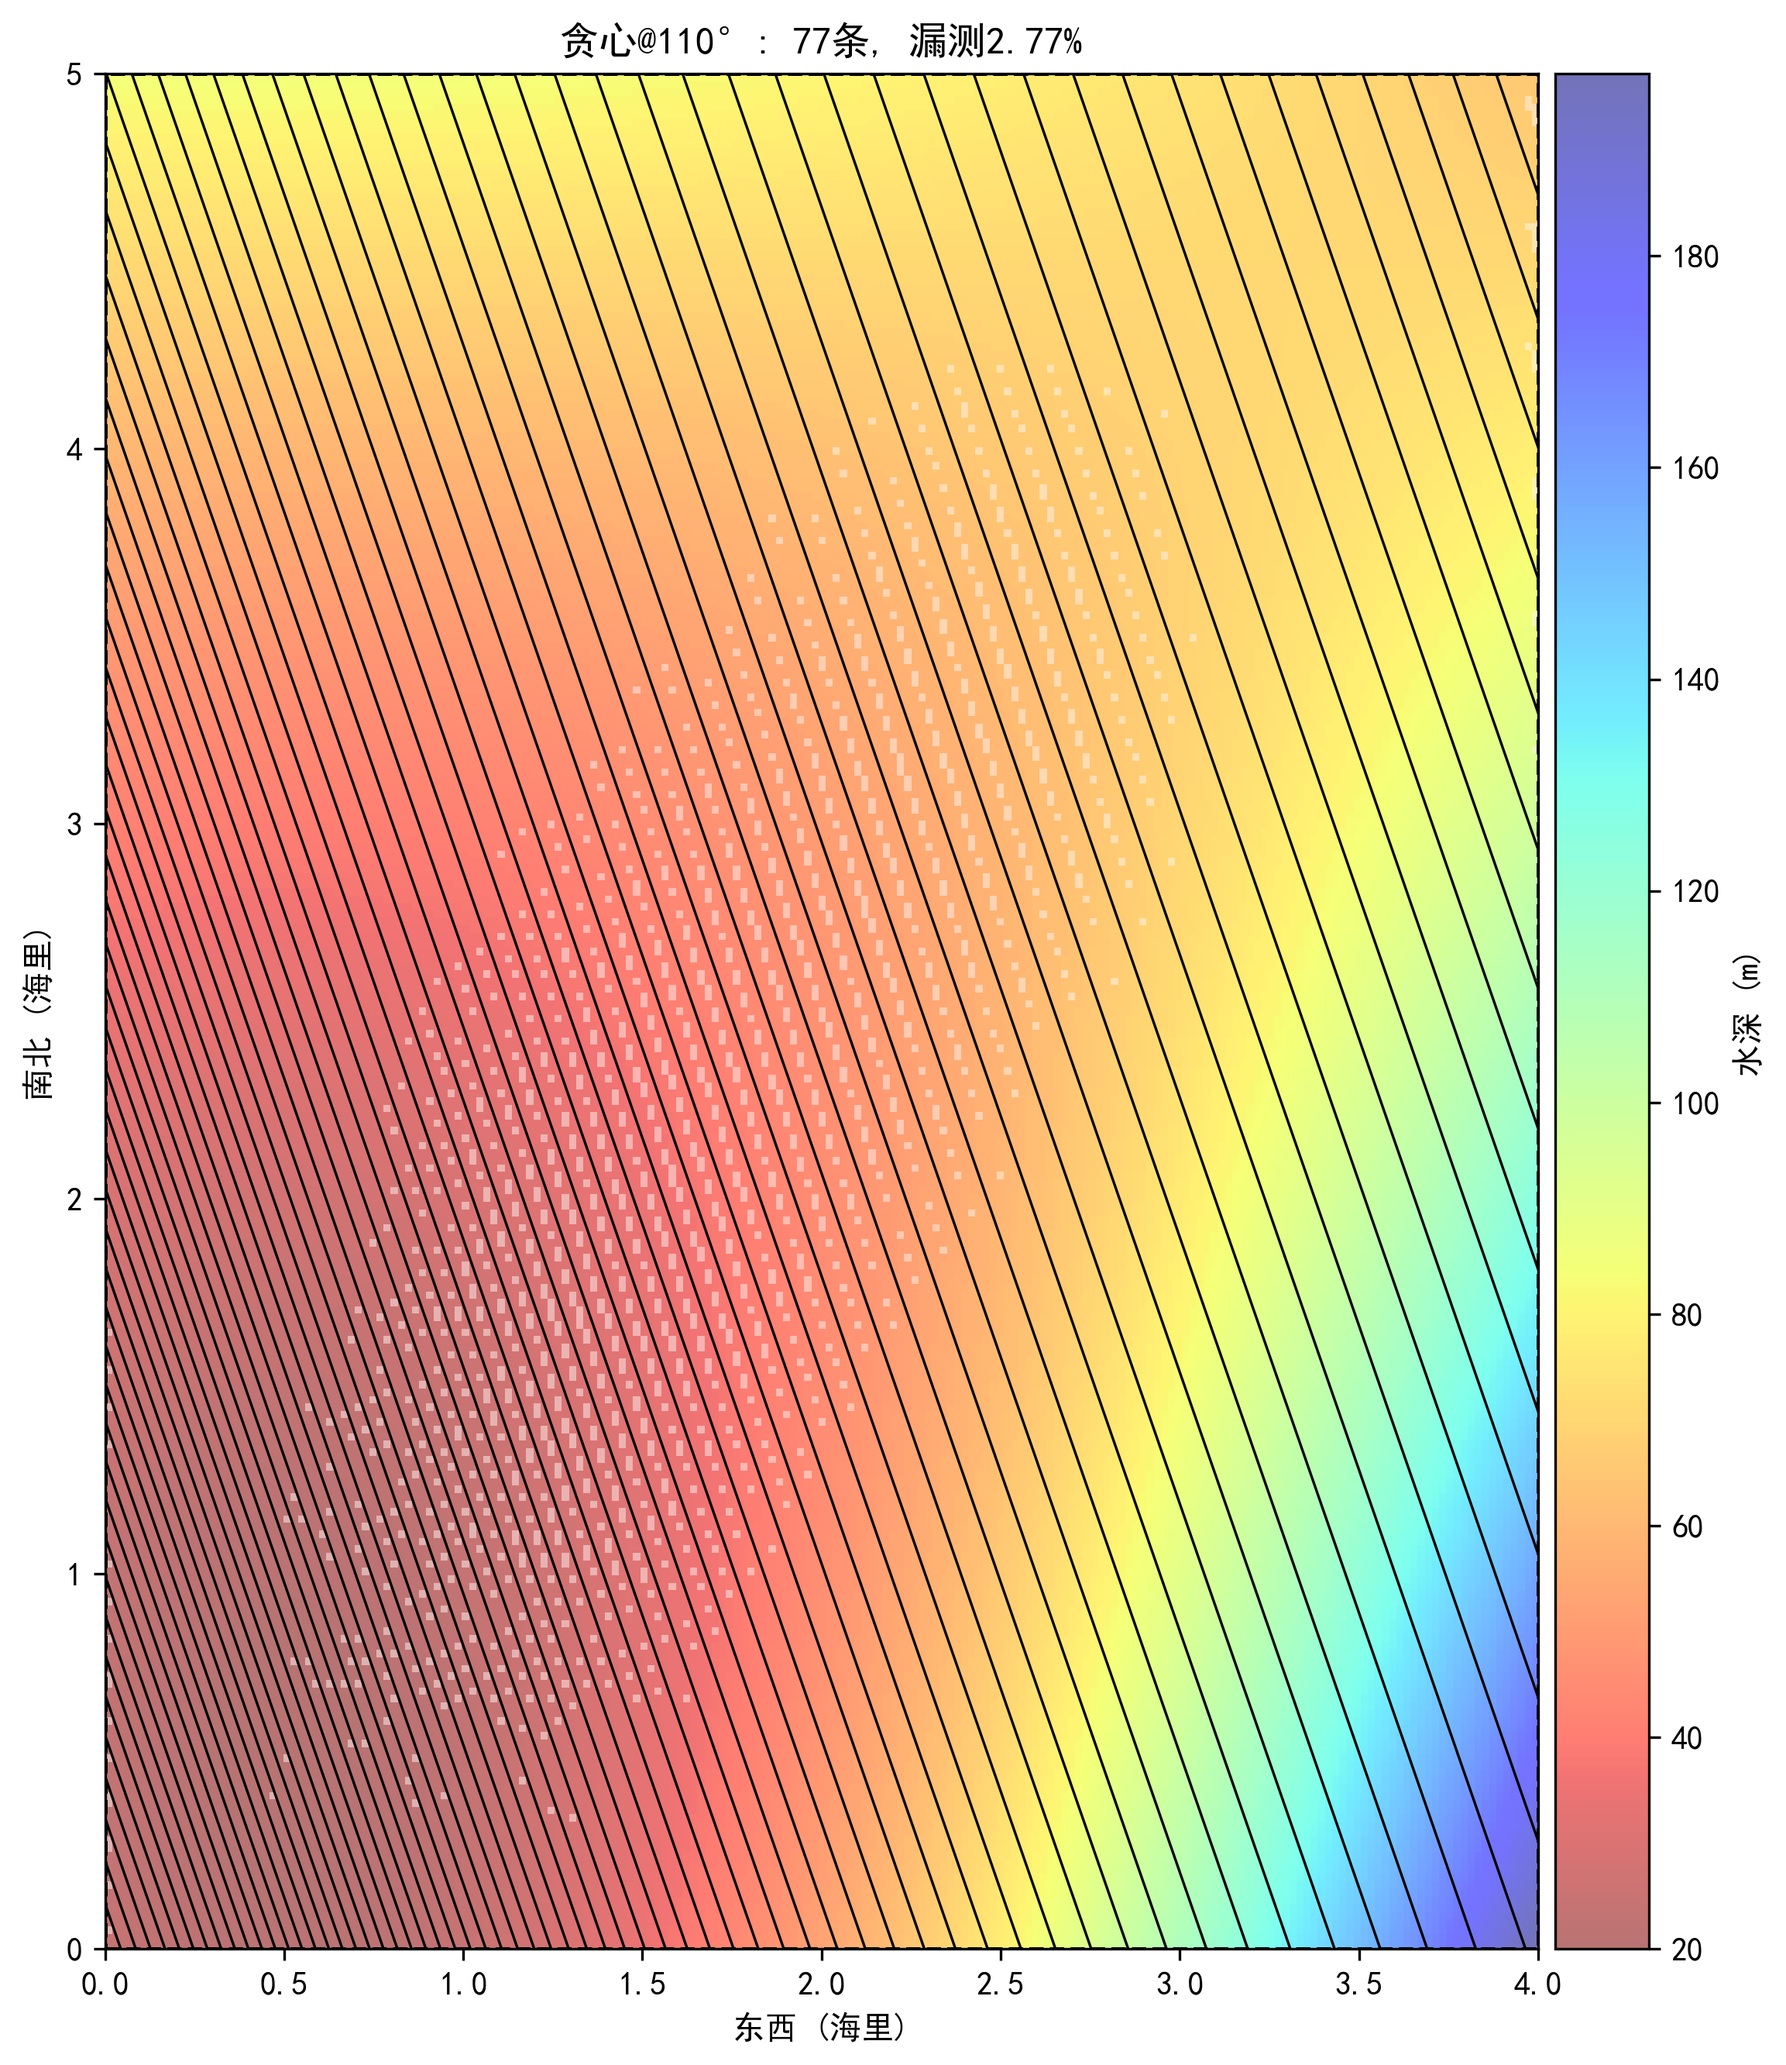
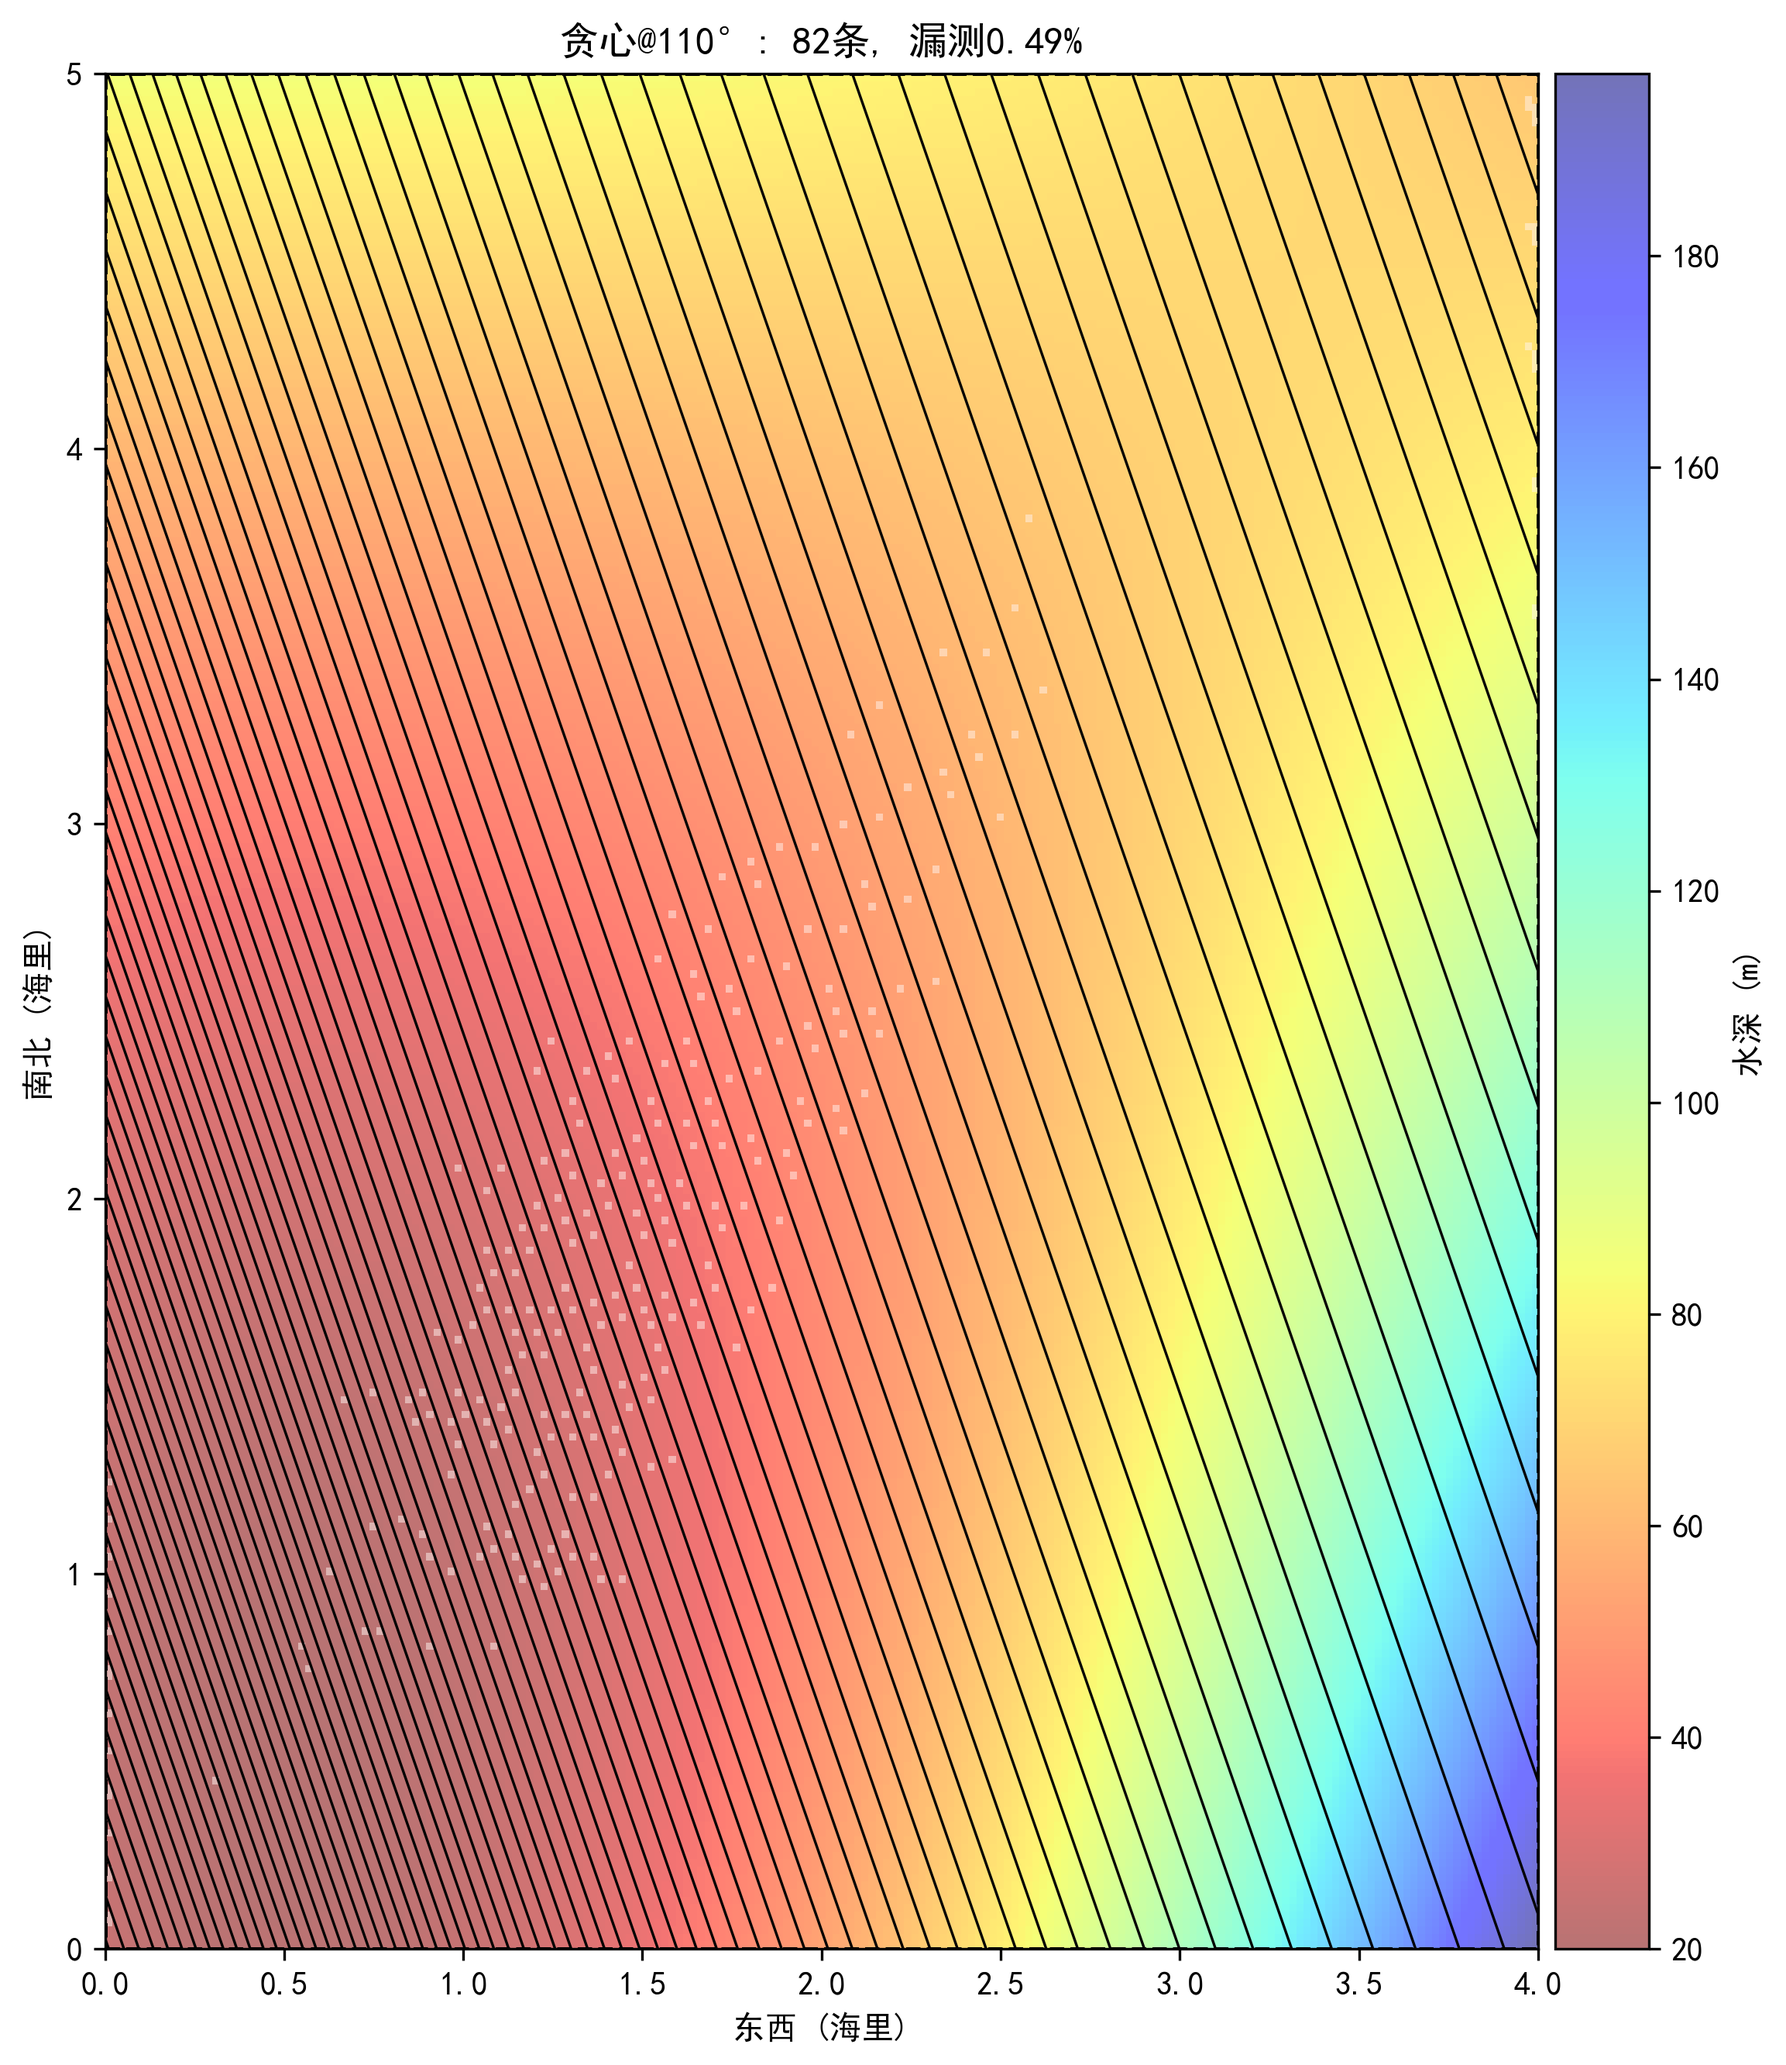
feat: 每问补充论证图(趋势/剖面/方向扫描/地形特征), 论文素材图清单定稿为每问3张

Changed region(s): [[0.0624, 0.0, 0.8742, 0.9655]]

diff --git a/单刷2023B/code/fig_q3_analysis.py b/单刷2023B/code/fig_q3_analysis.py
@@ -11,12 +11,46 @@ import matplotlib.pyplot as plt
 from matplotlib.colors import Normalize
 from matplotlib import cm
 
-from solve_q3 import layout_west, width, XW, XE, W_NS, H0, ta
+from solve_q3 import (layout_west, simulate_beta, width,
+                      XW, XE, W_NS, H0, ta)
 
 plt.rcParams['font.sans-serif'] = ['SimHei', 'Microsoft YaHei']
 plt.rcParams['axes.unicode_minus'] = False
 
 FIG = Path(__file__).resolve().parent.parent / 'fig'
+
+
+# ===== 图: β 方向扫描 (0~90°, 对称性裁剪) =====
+betas = np.arange(0, 91, 15)              # 测线无方向, β与180°-β等价
+l90 = simulate_beta(90)
+rels = np.array([simulate_beta(b) / l90 for b in betas])
+
+fig, ax = plt.subplots(figsize=(9, 5.5))
+ax.plot(betas, rels, 'o-', color='#2e86ab', lw=2, ms=7)
+ax.axvspan(85, 90, color='#c0392b', alpha=0.08)      # 最优区间高亮
+ax.axvline(90, color='#c0392b', ls='--', lw=1.2)
+for b, r in zip(betas, rels):
+    if b == 0:
+        ax.annotate(f'×{r:.2f}', xy=(b, r), xytext=(6, r - 0.35),
+                    fontsize=11, color='#1f4e79', fontweight='bold')
+    elif b == 90:
+        ax.annotate(f'×{r:.2f}', xy=(b, r), xytext=(b - 22, r + 0.15),
+                    fontsize=11, color='#1f4e79', fontweight='bold')
+    elif b in (30, 45, 60):
+        ax.annotate(f'×{r:.2f}', xy=(b, r), xytext=(b + 3, r - 0.25),
+                    fontsize=10, color='#1f4e79')
+ax.text(20, rels.max() * 0.9, '垂直等深线', ha='center', fontsize=10,
+        color='#888')
+ax.text(90, rels.max() * 0.7, '沿等深线', ha='right', fontsize=10,
+        color='#c0392b')
+ax.set_xlabel('测线方向夹角 (度)')
+ax.set_ylabel('相对测线总长 (90度方向为 1.00)')
+ax.set_title('测线总长随方向角单调递减, 90度方向最短')
+ax.grid(True, alpha=0.3, ls='--')
+plt.tight_layout()
+plt.savefig(FIG / 'fig_q3_beta_scan.png', dpi=300, bbox_inches='tight')
+plt.close(fig)
+print(f'[OK] fig_q3_beta_scan.png  β=0:×{rels[0]:.2f} β=90:×{rels[-1]:.2f}')
 
 
 # ===== 彩色海底 + 蛇形航线 =====

diff --git a/单刷2023B/code/fig_q2_results.py b/单刷2023B/code/fig_q2_results.py
@@ -8,6 +8,8 @@ from pathlib import Path
 
 import numpy as np
 import matplotlib.pyplot as plt
+from matplotlib import cm
+from matplotlib.colors import Normalize
 from scipy.interpolate import griddata
 
 plt.rcParams['font.sans-serif'] = ['SimHei', 'Microsoft YaHei']
@@ -84,3 +86,35 @@ ax2.set_title('(b) 覆盖宽度热力图', fontsize=12)
 plt.tight_layout()
 plt.savefig(FIG / 'fig_q2_combined.png', dpi=300, bbox_inches='tight')
 plt.close(fig)
+
+# ===== 图: β 剖面曲线族 (W vs L, 渐变色标) =====
+betas_prof = np.arange(0, 91, 15)          # 0,15,...,90 按公式重算
+Wp = np.zeros((len(betas_prof), len(L_NM)))
+for i, b in enumerate(betas_prof):
+    cb, sb = np.cos(np.deg2rad(b)), np.sin(np.deg2rad(b))
+    tap = ta * abs(sb)
+    Wp[i] = (H0 - L_NM * NM * ta * cb) * (1 / (t30 + tap) + 1 / (t30 - tap))
+
+fig, ax = plt.subplots(figsize=(9, 5.5))
+cmap = plt.cm.coolwarm
+norm = Normalize(0, 90)
+for i, b in enumerate(betas_prof):
+    ax.plot(L_NM, Wp[i], 'o-', color=cmap(norm(b)),
+            lw=3 if b == 90 else 1.6, ms=6 if b == 90 else 4)
+ax.fill_between(L_NM, Wp[0], Wp[-1], color='#2e86ab', alpha=0.06)
+ax.annotate('β=90°(沿等深线):\nW 恒定且最大', xy=(1.05, 418),
+            xytext=(0.75, 490),
+            arrowprops=dict(arrowstyle='->', color='#c0392b'),
+            fontsize=11, color='#c0392b', fontweight='bold')
+ax.set_xlabel('距中心点距离 L (海里)')
+ax.set_ylabel('覆盖宽度 W (m)')
+ax.set_title('不同测线方向 β 的 W(L) 剖面族')
+mappable = cm.ScalarMappable(norm=norm, cmap=cmap)
+mappable.set_array([])
+cbar = fig.colorbar(mappable, ax=ax, pad=0.02)
+cbar.set_label('测线方向 β (°)')
+ax.grid(True, alpha=0.3, ls='--')
+plt.tight_layout()
+plt.savefig(FIG / 'fig_q2_profile.png', dpi=300, bbox_inches='tight')
+plt.close(fig)
+print(f'[OK] {FIG / "fig_q2_profile.png"}')

diff --git a/单刷2023B/code/fig_q1_results.py b/单刷2023B/code/fig_q1_results.py
@@ -82,3 +82,40 @@ ax.set_aspect('auto')
 plt.savefig(FIG / 'fig_q1_coverage_overview.png', dpi=300,
             bbox_inches='tight')
 plt.close(fig)
+
+# ============================================================
+# 图2: W 与重叠率趋势 (双轴单图)
+# ============================================================
+eta = np.full_like(W, np.nan)
+for i in range(1, len(W)):
+    eta[i] = 1 - d / W[i]      # 瓶颈口径: 相邻两条中较浅者
+
+fig, ax1 = plt.subplots(figsize=(9, 5.5))
+ax1.plot(x_lines, W, 'o-', color='#2e86ab', lw=2, ms=7, label='覆盖宽度 W')
+ax1.axhline(d, color='#c0392b', ls='--', lw=1.5, label='测线间距 d=200m')
+ax1.fill_between(x_lines, d, W, where=(W > d), color='#2e86ab', alpha=0.15)
+ax1.set_xlabel('测线距中心点距离 (m)')
+ax1.set_ylabel('覆盖宽度 W (m)', color='#2e86ab')
+ax1.tick_params(axis='y', labelcolor='#2e86ab')
+ax1.grid(True, alpha=0.3, ls='--')
+
+ax2 = ax1.twinx()
+ax2.plot(x_lines[1:], eta[1:] * 100, 's-', color='#e67e22', lw=2, ms=6,
+         label='与前一条重叠率 η')
+ax2.axhline(0, color='gray', lw=1)
+ax2.set_ylabel('与前一条测线重叠率 η (%)', color='#e67e22')
+ax2.tick_params(axis='y', labelcolor='#e67e22')
+ax2.set_ylim(-45, 70)
+
+ax1.annotate('重叠: W > d', xy=(350, 260), fontsize=11, color='#2e86ab')
+ax1.annotate('空隙: W < d', xy=(690, 130), fontsize=11, color='#c0392b')
+ax1.annotate('η 由正转负', xy=(600, -30), fontsize=10, color='#e67e22')
+
+h1, l1 = ax1.get_legend_handles_labels()
+h2, l2 = ax2.get_legend_handles_labels()
+ax1.legend(h1 + h2, l1 + l2, loc='upper right', fontsize=9)
+
+plt.tight_layout()
+plt.savefig(FIG / 'fig_q1_trend.png', dpi=300, bbox_inches='tight')
+plt.close(fig)
+print(f'[OK] {FIG / "fig_q1_trend.png"}')

diff --git a/单刷2023B/code/fig_q4_layout.py b/单刷2023B/code/fig_q4_layout.py
@@ -65,3 +65,31 @@ plt.tight_layout()
 plt.savefig(FIG / 'fig_q4_pws.png', dpi=300, bbox_inches='tight')
 plt.close(fig)
 print(f'[OK] fig_q4_pws.png ({len(l_pws)}条)')
+
+# ===== 图3: 地形特征 (水深色图+等深线 / 等深线方向分布) =====
+fig, (ax1, ax2) = plt.subplots(1, 2, figsize=(12.5, 5.5),
+                               gridspec_kw={'width_ratios': [1.6, 1]})
+im = ax1.imshow(q.H, origin='lower', extent=[0, 4, 0, 5], cmap='jet_r',
+                aspect='auto')
+Xs, Ys = np.meshgrid(np.arange(q.NX) * 0.02, np.arange(q.NY) * 0.02)
+cs = ax1.contour(Xs, Ys, q.H, levels=15, colors='k', linewidths=0.4,
+                 alpha=0.5)
+ax1.clabel(cs, inline=True, fontsize=7, fmt='%.0f')
+ax1.set_xlabel('东西 (海里)')
+ax1.set_ylabel('南北 (海里)')
+ax1.set_title('水深分布与等深线')
+cbar = fig.colorbar(im, ax=ax1, pad=0.02)
+cbar.set_label('水深 (m)')
+
+th = np.degrees(q.THETA_ISO).ravel()
+ax2.hist(th, bins=18, range=(0, 180), color='#5fa8d3', edgecolor='w')
+ax2.axvline(88.4, color='#c0392b', ls='--', lw=1.2)
+ax2.text(93, ax2.get_ylim()[1] * 0.9, '均值 88.4°\nσ=50.6°',
+         color='#c0392b', fontsize=10)
+ax2.set_xlabel('等深线方向 (°)')
+ax2.set_ylabel('网格点数')
+ax2.set_title('等深线方向分布 (丘陵地形)')
+plt.tight_layout()
+plt.savefig(FIG / 'fig_q4_terrain.png', dpi=300, bbox_inches='tight')
+plt.close(fig)
+print(f'[OK] fig_q4_terrain.png')

diff --git a/单刷2023B/docs/第2问_论文素材.md b/单刷2023B/docs/第2问_论文素材.md
@@ -49,6 +49,7 @@ W 范围：62.9 ~ 768.5 m。对称性验证：β 与 β+180° 等价（测线无
 |---|---|---|
 | `../fig/fig_q2_geometry3d.png` | 三维几何示意图（测线/法向/β 角） | MATLAB |
 | `../fig/fig_q2_combined.png` | W(L,β) 曲面+热力图合成图（(a)(b) 子图） | Python |
+| `../fig/fig_q2_profile.png` | W(L) 剖面族（β=0~90° 渐变，β=90° 恒定最大） | Python |
 
 ## 5. 论文写作要点
 

diff --git a/单刷2023B/docs/第1问_论文素材.md b/单刷2023B/docs/第1问_论文素材.md
@@ -49,6 +49,7 @@ W_min 取相邻两条测线中较浅（较窄）者的覆盖宽度。
 |---|---|---|
 | `../fig/fig_q1_geometry.png` | 截面几何示意图（60°半开角/α/垂距/W） | MATLAB |
 | `../fig/fig_q1_coverage_overview.png` | 覆盖带俯视图（条带/重叠区/空隙） | Python |
+| `../fig/fig_q1_trend.png` | W 与重叠率趋势（双轴：W 递减 vs η 递减转负） | Python |
 
 ## 5. 论文写作要点
 

diff --git a/单刷2023B/docs/第4问_论文素材.md b/单刷2023B/docs/第4问_论文素材.md
@@ -70,6 +70,7 @@ $$\tan\alpha' = |g_x n_x + g_y n_y|,\qquad W_\theta = H\left[\frac{1}{\tan30^\ci
 
 | 图 | 说明 |
 |---|---|
+| `../fig/fig_q4_terrain.png` | 地形特征（水深色图+等深线 / 方向分布 σ=50.6°） |
 | `../fig/fig_q4_layout.png` | 105° 斜线族布局（黑主线 + 橙补线 + 红漏测区） |
 | `../fig/fig_q4_pws.png` | PWS 曲线方案对比（蜿蜒/汇聚） |
 

diff --git a/单刷2023B/docs/第3问_论文素材.md b/单刷2023B/docs/第3问_论文素材.md
@@ -79,6 +79,7 @@ $$d_i = 0.9\cdot W_{\min}(x_i, x_{i+1})$$
 
 | 图 | 说明 |
 |---|---|
+| `../fig/fig_q3_beta_scan.png` | 方向扫描（0~90° 单调递减，×5.69→×1.00） |
 | `../fig/fig_q3_3d.png` | 彩色海底 + 蛇形航线三维图 |
 | `../fig/fig_q3_track.png` | 完整航迹图（蛇形折返，72+6 海里） |
 
